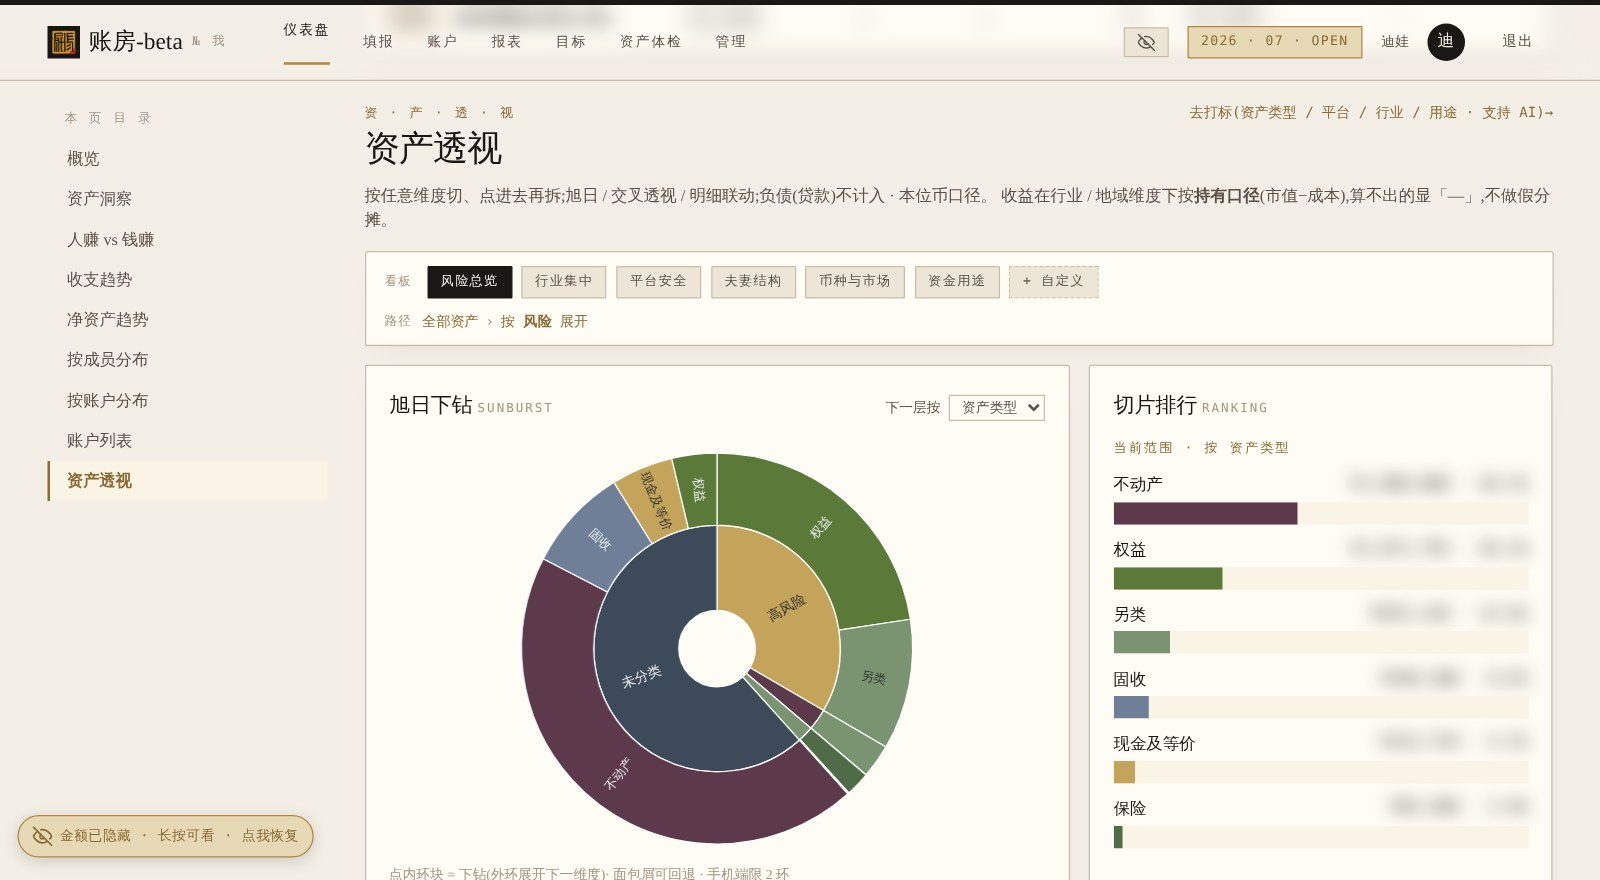
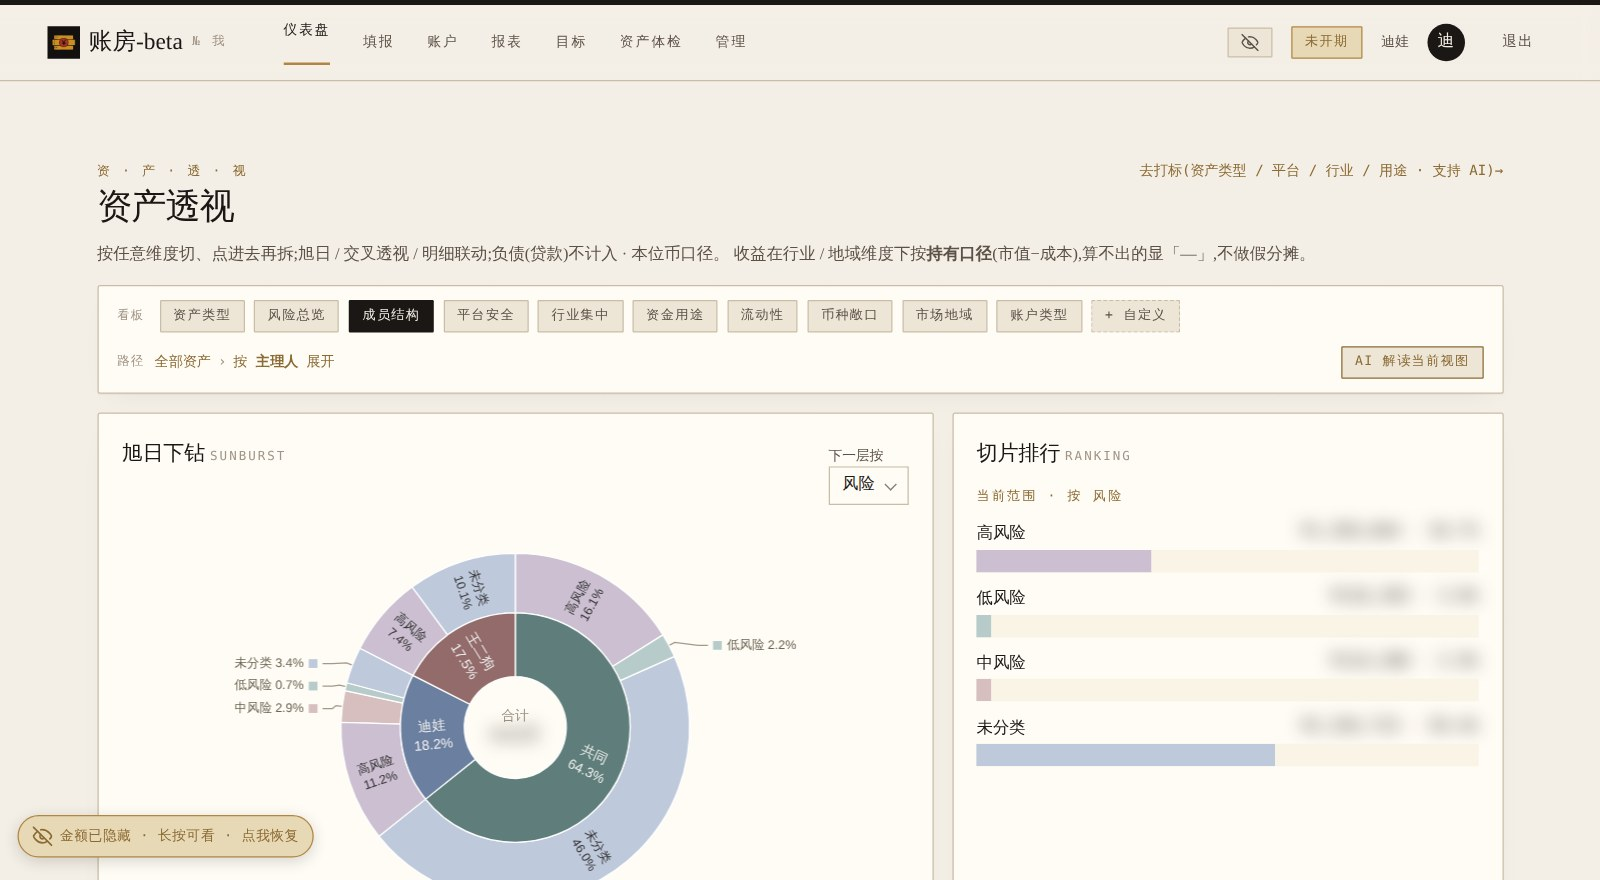
fix(第七轮5项) · 目标ⓘ改kpi-info组件点击弹描述不跳详情 · 全站小图标热区::after扩38px · 自绘图例找回toggle曲线交互 · README旭日截图更新成员结构看板v3 · docker-publish加固CN_MIRROR(CI直连central,aliyun 502单点已rerun成功) · R7守护+数字带473

diff --git a/src/main/resources/templates/dashboard/_region.html b/src/main/resources/templates/dashboard/_region.html
@@ -680,12 +680,6 @@
         if (m2Series) {
           datasets.push({label: mobLegend ? 'M2 财富线' : 'M2 社会财富线 (' + m2Pct + '%)', data: m2Series, borderColor: '#9c4a2a', borderDash: [3, 3], borderWidth: 1.5, backgroundColor: 'transparent', fill: false, tension: .35, pointRadius: 0});
         }
-        const nwLegendM = document.getElementById('nwLegendM');
-        if (nwLegendM && mobLegend && cpiSeries) {
-          nwLegendM.innerHTML = datasets.map(d =>
-            '<span class="inline-flex items-center gap-1"><span style="width:12px;height:3px;background:' + d.borderColor + ';display:inline-block"></span>' + d.label + '</span>'
-          ).join('');
-        }
         window.financeCharts.netWorth = new Chart(line, {
           type: 'line',
           data: {labels: data.labels, datasets: datasets},
@@ -715,6 +709,24 @@
           },
           plugins: [ChartDataLabels]
         });
+        /* 2026-07-19 · 移动自绘图例(chart 创建后填充):点击项 = toggle 对应曲线显隐(找回原生 legend 的交互),
+           关闭态 40% 透明 + 删除线;热区随 .tap 扩大 */
+        const nwLegendM = document.getElementById('nwLegendM');
+        if (nwLegendM && mobLegend && cpiSeries) {
+          nwLegendM.innerHTML = datasets.map((d, i) =>
+            '<button type="button" data-di="' + i + '" class="tap inline-flex items-center gap-1" style="background:none;border:0;padding:0;color:inherit;font:inherit;cursor:pointer">' +
+            '<span style="width:12px;height:3px;background:' + d.borderColor + ';display:inline-block"></span>' + d.label + '</button>'
+          ).join('');
+          nwLegendM.querySelectorAll('[data-di]').forEach(btn => {
+            btn.addEventListener('click', () => {
+              const i = Number(btn.dataset.di), ch = window.financeCharts.netWorth;
+              const vis = ch.isDatasetVisible(i);
+              ch.setDatasetVisibility(i, !vis); ch.update();
+              btn.style.opacity = vis ? '0.4' : '1';
+              btn.style.textDecoration = vis ? 'line-through' : 'none';
+            });
+          });
+        }
       }
 
       // v0.4 FR-60a 砍 incomeExpenseChart · 储蓄区已有更专业版

diff --git a/src/main/resources/templates/goals/_progress-strip.html b/src/main/resources/templates/goals/_progress-strip.html
@@ -33,11 +33,8 @@
           <div class="flex-1 min-w-0">
             <div class="flex items-center gap-1">
               <span class="text-sm text-ink truncate group-hover:text-brass-deep transition" th:text="${gp.goal.name}">退休</span>
-              <!-- ⓘ hover 看描述(无描述回落名称)· 原生 title 浮层 -->
-              <span class="flex-shrink-0 inline-flex text-ink-subtle" style="cursor:help"
-                    th:title="${gp.goal.description != null and !gp.goal.description.isBlank()} ? ${gp.goal.description} : ${gp.goal.name}">
-                <svg width="12" height="12" viewBox="0 0 24 24" fill="none" stroke="currentColor" stroke-width="2" stroke-linecap="round" stroke-linejoin="round" aria-hidden="true"><circle cx="12" cy="12" r="10"/><line x1="12" y1="16" x2="12" y2="12"/><line x1="12" y1="8" x2="12.01" y2="8"/></svg>
-              </span>
+              <!-- 2026-07-19:ⓘ 换 kpi-info 组件 —— 点击弹描述(stopPropagation,不再误跳目标详情);热区随全局扩大 -->
+              <th:block th:insert="~{fragments/_kpi-info :: i(${gp.goal.description != null and !gp.goal.description.isBlank() ? gp.goal.description : gp.goal.name}, null)}"/>
               <span class="font-mono text-xs text-ink-subtle ml-auto flex-shrink-0" th:text="${gp.progressPct} + '%'">57%</span>
             </div>
             <div class="w-full bg-card-soft h-1.5 mt-1 overflow-hidden">

diff --git a/src/main/resources/templates/landing.html b/src/main/resources/templates/landing.html
@@ -119,7 +119,7 @@ bash deploy/docker-up.sh</code></pre>
     <div><div class="font-display text-4xl text-ink"><span class="num" data-stat="version" data-to="18">18</span></div><div class="eyebrow mt-1.5">个版本迭代</div></div>
     <div><div class="font-display text-4xl text-ink"><span class="num" data-stat="tests" data-to="414">414</span></div><div class="eyebrow mt-1.5">单元测试</div></div>
     <div><div class="font-display text-4xl text-ink"><span class="num" data-stat="migrations" data-to="47">47</span></div><div class="eyebrow mt-1.5">数据库迁移</div></div>
-    <div><div class="font-display text-4xl text-ink"><span class="num" data-stat="blackbox" data-to="472">472</span></div><div class="eyebrow mt-1.5">黑盒回归断言</div></div>
+    <div><div class="font-display text-4xl text-ink"><span class="num" data-stat="blackbox" data-to="473">473</span></div><div class="eyebrow mt-1.5">黑盒回归断言</div></div>
   </div>
 </section>
 

diff --git a/src/main/resources/static/css/style.css b/src/main/resources/static/css/style.css
@@ -343,6 +343,12 @@ h1, h2, h3, h4 {
   flex-shrink: 0; padding: 0; background: none;
 }
 .kpi-info-btn:hover { color: var(--brass-deep); }
+/* 2026-07-19 · 移动可点性:视觉 14px 的小图标,触摸热区扩到 ~38px(::after 不占布局,只吃点击) */
+.kpi-info-btn { position: relative; }
+.kpi-info-btn::after, .tap::after {
+  content: ''; position: absolute; inset: -12px;
+}
+.tap { position: relative; }
 .kpi-info-panel {
   /* absolute 浮层 · 不撑开 parent card 布局 */
   position: absolute;

diff --git a/src/main/java/com/family/finance/web/entry/EntryController.java b/src/main/java/com/family/finance/web/entry/EntryController.java
@@ -531,7 +531,7 @@ public class EntryController {
                 String url = (le.kind() == EntryRow.LedgerKind.TRANSFER_IN || le.kind() == EntryRow.LedgerKind.TRANSFER_OUT)
                         ? "/entry/transfer/" + le.sourceId() + "/delete"
                         : "/entry/cash-flow/" + le.sourceId() + "/delete";
-                sb.append("<button class=\"text-[11px] text-ink-subtle hover:text-rust px-1\" title=\"删除此条\" ")
+                sb.append("<button class=\"tap text-[11px] text-ink-subtle hover:text-rust px-1\" title=\"删除此条\" ")
                         .append("hx-post=\"").append(url).append("\" ")
                         .append("hx-target=\"#row-").append(row.account().getId()).append("\" ")
                         .append("hx-swap=\"outerHTML\" ")

diff --git a/docs/qa-cases.md b/docs/qa-cases.md
@@ -1698,6 +1698,7 @@ Docker 化部署 + systemd/macOS 存量零丢迁移。**真机冒烟(docker buil
 | v11-ENTRY-UX | 填报页(2026-07-17 评审):①全家可见确认保留(默认 mineOnly=false + 仅我切换,v0.4.15 起即有,账户行 avatar 已有);②收入记录行新增 **账户主理人头像**(avatar-N 圆标,ownerColorMap 同款)+ **填报日期**(submitted_at → MM-dd,title 含完整时刻);投影 `IncomeEntryRow` 扩 ownerName/submittedAt(LEFT JOIN member);SQL 实测 迪娃/07-01 正确(页面级渲染需 OPEN 期,beta 当前 CLOSED 由模板同构保证);③UED:_row 右列操作区重排两段式(快捷支出/账户间划转 各带 eyebrow,控件统一 h-8,划转 select 全宽+金额/到账/按钮一行),收入表单控件统一 h-9 |
 | v11-UED8 | 2026-07-18 八项 UED 细节:①支出输入框与「保存本月总支出」同 items-end 流(参考行移出,统一 h-11);②「现金收入/股票收入」tab 不再独占一行,嵌入表单行首与金额/类目同行(h-9 同高,id→class 双处绑定);③移动端「刷新持仓估值/+新账户」whitespace-nowrap 不再折字;④自研下拉移动端打开不自动聚焦搜索框(弹键盘会挡选项列表,PC 保留直打搜索);⑤目标条带移动单列(原两列 150px 格 + nowrap 底行必溢出框体);⑥AI 资产洞察卡标题与信号 pills 分层(原混排换行参差);⑦「本期 xx-xx/收入已录入」pills 移动横排一行(原 flex-col 竖占);⑧净资产趋势图例窄屏短标签(CPI 购买力/M2 财富线)+9px 小色块一行放下,顶距 40 防 datalabel 蹭图例。实测断言:#3 单行 true/#7 同行 true/#4 focus false/#8 截图一行 |
 | v11-R6 | 2026-07-19 六项:①目标条带移动回两列提密度(外层 px-3 py-3 内卡 px-2 py-1.5 gap-1.5,底行 flex-wrap 防溢出;实测两列/无溢出);②「本期/已填」pills 强制同行(flex-nowrap + 移动 10px;实测 sameRow=true 右缘 228<360);③净资产趋势移动端**自绘 HTML 图例**(#nwLegendM 一行永不换,Chart.js 原生 legend 窄屏隐藏——上轮短标签方案在真机字体宽度下仍折行,根治);④流水行账本式两行(行1 类型 w-16|摘要 truncate|金额右对齐成列,行2 时间/备注 pl-72 对齐摘要);⑤账户页顶部 tile 中文为主(现金 CASH);⑥目标百分比 setScale(2)(实测 78.33%/43.52%)。验证用临时目标(TOTAL_ASSETS/DEADLINE)插删干净 |
+| v11-R7 | 2026-07-19 五项:①目标条带 ⓘ 从 span+title 换 `_kpi-info` 组件(kpi-info.js 已带 preventDefault+stopPropagation → 点击弹描述、不再误跳目标详情;实测 panel 弹出且留在 dashboard);②小图标热区:`.kpi-info-btn::after/.tap::after inset:-12px`(视觉 14px → 热区 ~38px,elementFromPoint -8px 处仍 HIT),流水删除 ✕ 加 .tap;③移动自绘图例找回原生 toggle(点击项 setDatasetVisibility 显隐曲线 + 40% 透明删除线;实测 true→false→true);④README 旭日截图重拍为「成员结构」看板(内=主理人 外=风险,1600×880,?v=3);⑤docker-publish 失败根因=aliyun maven 镜像 502(瞬态,rerun success);加固:Dockerfile ARG CN_MIRROR(默认 1 本地走 aliyun,CI 传 0 直连 central,去单点) |
 | FR6-1(改) | GET `/my-todos` → 302(退休重定向,保老书签) |
 | FR6-2(改) | 跟随 `/my-todos` 重定向落到 `/entry?mine=true`(含「保存我的本月收支 / 应填账户」) |
 | v04-UX-7(改) | `/entry?mine=true`(承接待办)不暴露 `SNAPSHOT_TODO` enum / 类型英文括号 |

diff --git a/README.md b/README.md
@@ -16,7 +16,7 @@
   <tr>
     <td width="33%"><img src="docs/screenshots/pc_dashboard.jpg" alt="仪表盘"><br><sub><b>仪表盘</b> · 净资产趋势(CPI 购买力线 + M2 社会财富线)+ 配置环形 + KPI</sub></td>
     <td width="33%"><img src="docs/screenshots/pc_ai_analysis.jpg" alt="AI 综合诊断"><br><sub><b>AI 综合诊断</b> · 总评 + 四维卡 + 优先行动(数字工程算,LLM 只解读)</sub></td>
-    <td width="33%"><img src="docs/screenshots/pc_lens.jpg?v=2" alt="资产透视"><br><sub><b>资产透视</b> · 旭日下钻 + 交叉透视表 + 钻到持仓明细 · 6 块预设看板 · 同维值同色</sub></td>
+    <td width="33%"><img src="docs/screenshots/pc_lens.jpg?v=3" alt="资产透视"><br><sub><b>资产透视</b> · 旭日下钻 + 交叉透视表 + 钻到持仓明细 · 6 块预设看板 · 同维值同色</sub></td>
   </tr>
   <tr>
     <td width="33%"><img src="docs/screenshots/pc_account.jpg" alt="账户簿"><br><sub><b>账户簿</b> · 6 类账户 · 按成员归集 · 划转 / 体检 / 账本 / 一键导出</sub></td>
@@ -140,7 +140,7 @@
 | 前端 | Thymeleaf + HTMX 1.9 + Chart.js 4 + ECharts(无 SPA、无构建管线) |
 | 认证 | Spring Security + bcrypt + Session Cookie |
 | 部署 | **Docker compose 一键(v0.7,推荐)** · 或 Linux systemd + nginx 反代 :80 → :20000 · macOS launchd(可选)直连 :20000 |
-| 测试 | JUnit 5 · 414 单元(含 PivotEngine 透视引擎(归因降级+币种不变性) + LensAiTag 白名单 +  PrivacyIsolationTest 静态扫源码私密红线 + CurrencyInvarianceTest 币种不变性(含保险) + AShareTicker 交易所前缀 + MetalUnit 贵金属单位/归一 + BrokerReadOnlyGuard 券商只读铁律静态扫 + FutuOpend 向导只读护栏(下载白名单/只绑127.0.0.1/密码只MD5)+ AllocationDiff 保险独立桶 + InsurancePolicy 保单登记 + EntryLoanPrompt 贷款趋势预测兼容闸 + GoalMetricEvaluator 指标聚合 + GoalPaceCalculator 进度落后判定 + 单一镜头端到端币种守护)/ 55 e2e 断言(11 主线)/ 472 黑盒回归 |
+| 测试 | JUnit 5 · 414 单元(含 PivotEngine 透视引擎(归因降级+币种不变性) + LensAiTag 白名单 +  PrivacyIsolationTest 静态扫源码私密红线 + CurrencyInvarianceTest 币种不变性(含保险) + AShareTicker 交易所前缀 + MetalUnit 贵金属单位/归一 + BrokerReadOnlyGuard 券商只读铁律静态扫 + FutuOpend 向导只读护栏(下载白名单/只绑127.0.0.1/密码只MD5)+ AllocationDiff 保险独立桶 + InsurancePolicy 保单登记 + EntryLoanPrompt 贷款趋势预测兼容闸 + GoalMetricEvaluator 指标聚合 + GoalPaceCalculator 进度落后判定 + 单一镜头端到端币种守护)/ 55 e2e 断言(11 主线)/ 473 黑盒回归 |
 
 ## 快速开始(自托管部署)
 
@@ -271,7 +271,7 @@ mvn spring-boot:run
 
 ```bash
 mvn test                       # JUnit 单元测试(414)
-bash scripts/qa-run.sh         # 黑盒 endpoint + 模板渲染(472)
+bash scripts/qa-run.sh         # 黑盒 endpoint + 模板渲染(473)
 bash scripts/e2e.sh            # 端到端主线真验收(11 主线 · 唤起 beta 调接口 + DB 真值判定 · mysqldump 快照/还原,不清库)
 ```
 

diff --git a/prd/v1.1.md b/prd/v1.1.md
@@ -219,3 +219,10 @@
 4. 填报流水行改账本式两行:类型|摘要|金额(右对齐成列),时间/备注第二行与摘要对齐。
 5. 账户页顶部类型看板中文为主、code 为辅。
 6. 目标进度百分比统一展示两位小数。
+
+### 11.7 五项(2026-07-19)
+1. 目标 ⓘ 点击 = 弹出目标描述(kpi-info 组件,阻止冒泡),不再误跳详情页。
+2. 移动可点性:全站 ⓘ 与流水删除等小图标热区经 ::after 扩至 ~38px(视觉不变,附近点击即命中)。
+3. 净资产趋势移动自绘图例找回「点击图例显隐曲线」交互(关闭态半透明+删除线)。
+4. README 旭日下钻截图更新为「成员结构」看板(内环成员 · 外环风险)。
+5. docker-publish CI 加固:构建参数 CN_MIRROR,CI 直连 Maven Central,不再被 aliyun 镜像 502 单点拖挂(本地 CN 构建默认仍走 aliyun 加速)。
